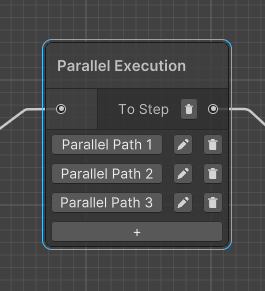
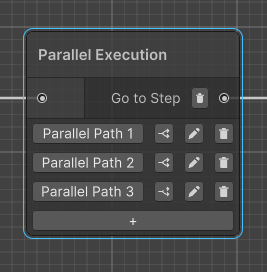
Updated to next release

Changed region(s): [[0.0, 0.0882, 1.0, 0.8824], [0.2113, 0.3529, 0.2717, 0.4118]]

diff --git a/docfx/articles/core/quick-start.md b/docfx/articles/core/quick-start.md
@@ -113,12 +113,14 @@ The parallel execution node lets you execute two or more step sequences at the s
 Clicking on a Parallel Path button will open a new graph where the path can be edited. This is very similar to a step group, with the difference that there can be multiple parallel paths and they are all executed at the same time.
 Like with step groups, it is possible to return to the main process by clicking the root chapter on the top left of the process editor.
 
-The buttons next to a parallel path let you rename or delete it. The "+" button at the bottom lets you add more parallel paths. There is no theoretical limit to the number of paths in a parallel execution node, but performance might suffer.
+The buttons next to a parallel path let you make the path optional, rename it or delete it. Non-optional paths are displayed with the continuous arrow icon, while the interrupted arrow icon denotes that a path is optional.
+
+When all non-optional paths have finished execution, the node ends execution as well. All optional paths are immediately interrupted. It can be useful to create optional paths to display looping animations, recurring hints and so on - they can even be endless loops, as they will be interrupted anyway when the step ends.
+
+The "+" button at the bottom lets you add more parallel paths. There is no theoretical limit to the number of paths in a parallel execution node, but performance might suffer.
 
 ##### End Chapter
 
-You can use this node as the last node on a sequence. It will end the current chapter and start a new specified chapter, which can be selected from a drop-down list. This is useful to move through the chapters in a non-linear fashion. Note that you are not required to use this node for linear processes, as a chapter will automatically end when an empty transition is reached. In that case, the process will simply proceed to the following chapter.
+You can use this node as the last node on a sequence. It will immediately end the current chapter and start a new specified chapter, which can be selected from a drop-down list. This is useful to move through the chapters in a non-linear fashion. Note that you are not required to use this node for linear processes, as a chapter will automatically end when an empty transition is reached. In that case, the process will simply proceed to the following chapter.
 
 ![End chapter node](images/end-chapter-node.png)
-
-    Note: It is not recommended to use this node inside a step group as it will behave slightly differently (the nodes following the step group will be fast-forwarded before ending the chapter). It is currently not possible to create this node inside a step group.
